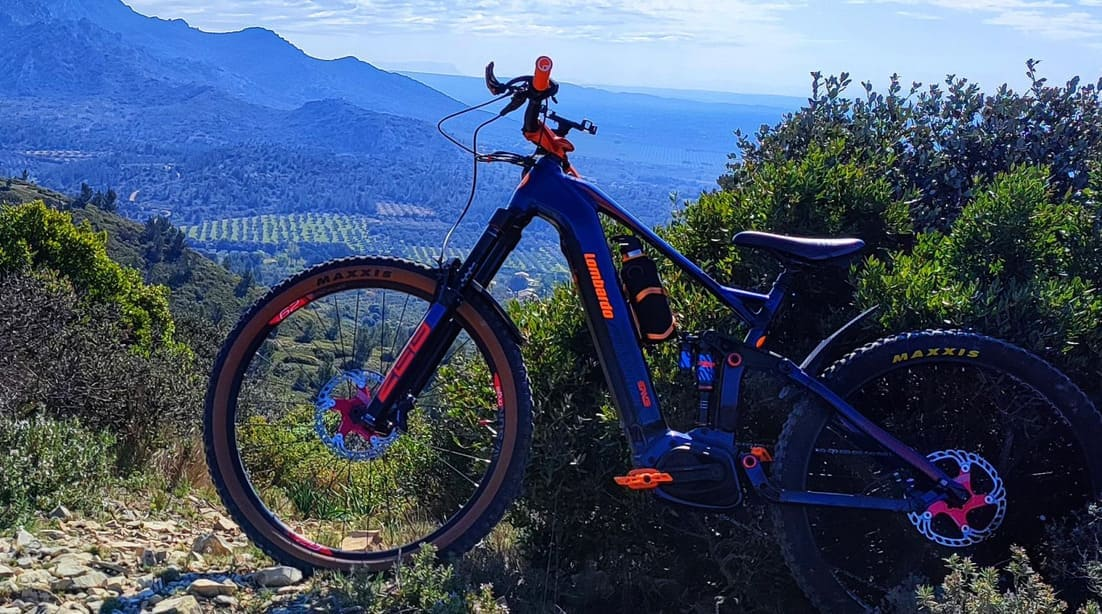
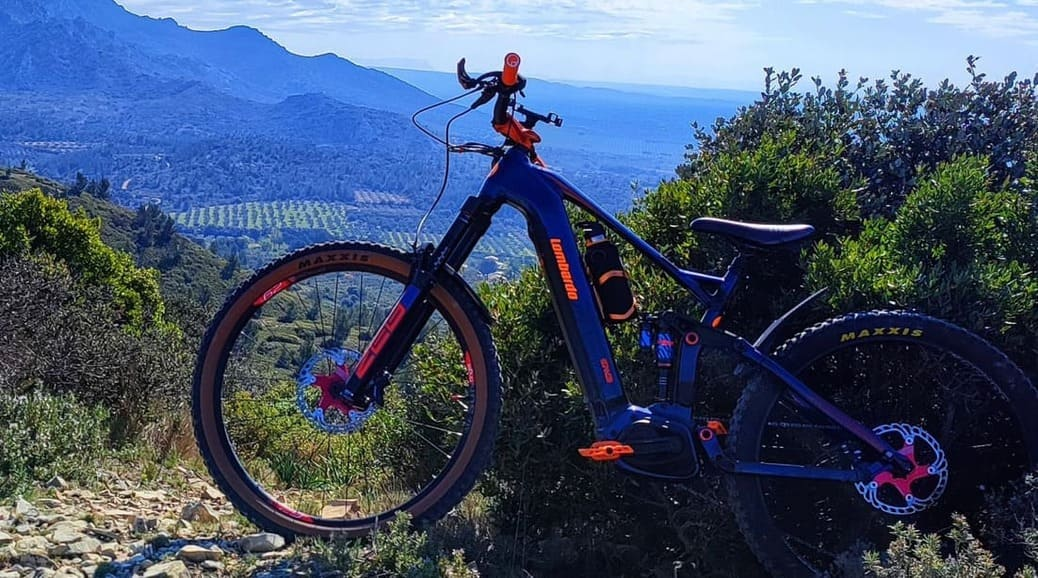
Reduction poids et taille des images de index

diff --git a/index.html b/index.html
@@ -36,9 +36,9 @@
             </div>
             <div class="swiper mySwiper">
                 <div class="swiper-wrapper">
-                    <div class="swiper-slide"><img src="images/dassault_index_defil/dassault_index_defil_1390x775_1.jpg" alt="Image du carrousel numéro 1"></div>
-                    <div class="swiper-slide"><img src="images/dassault_index_defil/dassault_index_defil_1390x775_2.jpg" alt="Image du carrousel numéro 2"></div>
-                    <div class="swiper-slide"><img src="images/dassault_index_defil/dassault_index_defil_1390x775_3.jpg" alt="Image du carrousel numéro 3"></div>
+                    <div class="swiper-slide"><img src="images/dassault_index_defil/dassault_index_defil_1.jpg" alt="Image du carrousel numéro 1"></div>
+                    <div class="swiper-slide"><img src="images/dassault_index_defil/dassault_index_defil_2.jpg" alt="Image du carrousel numéro 2"></div>
+                    <div class="swiper-slide"><img src="images/dassault_index_defil/dassault_index_defil_3.jpg" alt="Image du carrousel numéro 3"></div>
                 </div>
                 <div class="swiper-pagination"></div>
             </div>
